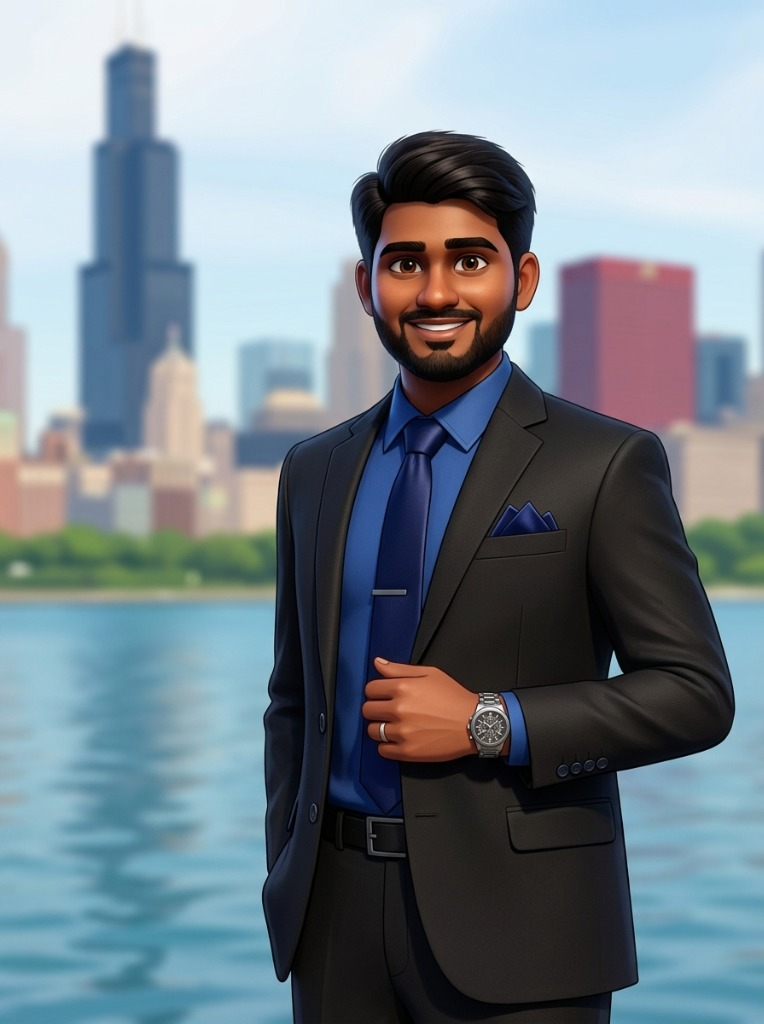
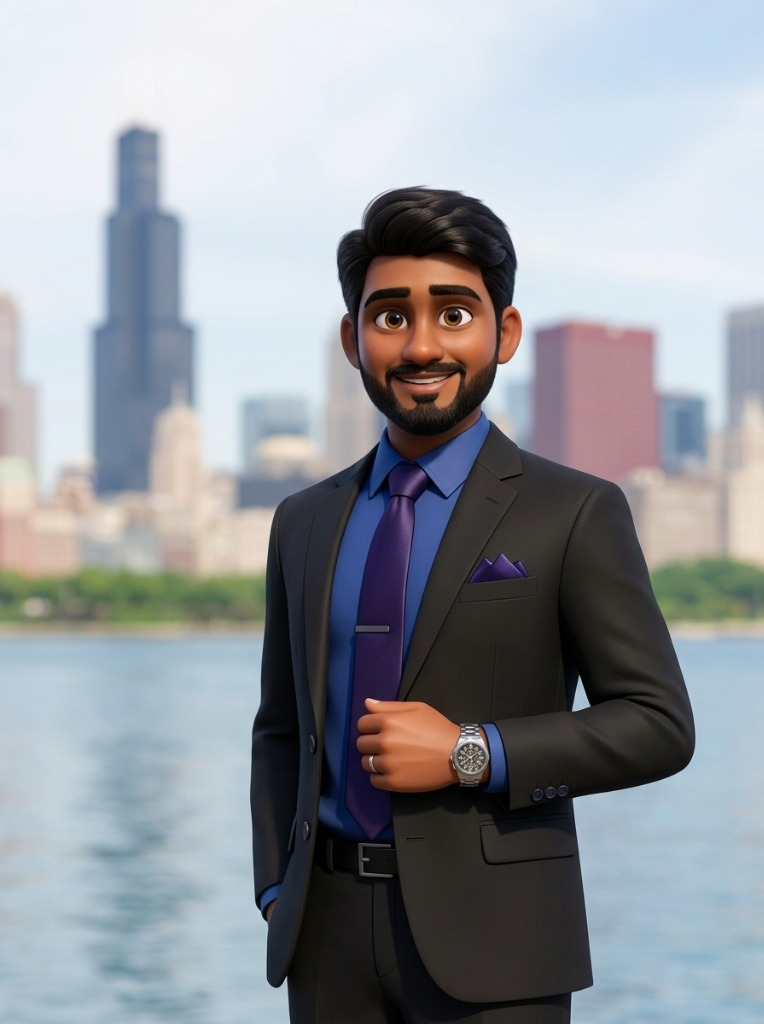
feat: implement interactive liquid-blob mask transition for profile photo reveal

diff --git a/lib/presentation/widgets/body/about_me/interactive_profile_photo.dart b/lib/presentation/widgets/body/about_me/interactive_profile_photo.dart
@@ -1,3 +1,4 @@
+import 'dart:math' as math;
 import 'dart:ui';
 import 'package:flutter/material.dart';
 import '../../../../core/utils/app_extensions.dart';
@@ -10,18 +11,70 @@ class InteractiveProfilePhoto extends StatefulWidget {
       _InteractiveProfilePhotoState();
 }
 
-class _InteractiveProfilePhotoState extends State<InteractiveProfilePhoto> {
+class _InteractiveProfilePhotoState extends State<InteractiveProfilePhoto>
+    with TickerProviderStateMixin {
+  Offset? _mousePosition;
+  late AnimationController _revealController;
+  late Animation<double> _revealAnimation;
+  late AnimationController _fluidWaveController;
   bool _isHovered = false;
+
+  @override
+  void initState() {
+    super.initState();
+    _revealController = AnimationController(
+      vsync: this,
+      duration: const Duration(milliseconds: 350),
+    );
+    _revealAnimation = CurvedAnimation(
+      parent: _revealController,
+      curve: Curves.easeOutCubic,
+      reverseCurve: Curves.easeInCubic,
+    );
+
+    // Continuous subtle fluid surface tension wave animation
+    _fluidWaveController = AnimationController(
+      vsync: this,
+      duration: const Duration(milliseconds: 3000),
+    )..repeat();
+  }
 
   @override
   void didChangeDependencies() {
     super.didChangeDependencies();
-    // Precache both images for instant, smooth cross-fading
     precacheImage(
       const AssetImage('assets/images/profile_animated.jpg'),
       context,
     );
     precacheImage(const AssetImage('assets/images/profile_real.jpg'), context);
+  }
+
+  @override
+  void dispose() {
+    _revealController.dispose();
+    _fluidWaveController.dispose();
+    super.dispose();
+  }
+
+  void _onHover(PointerEvent event) {
+    setState(() {
+      _isHovered = true;
+      _mousePosition = event.localPosition;
+    });
+    if (!_revealController.isAnimating && _revealController.value < 1.0) {
+      _revealController.forward();
+    }
+  }
+
+  void _onExit(PointerEvent event) {
+    _revealController.reverse().then((_) {
+      if (mounted) {
+        setState(() {
+          _isHovered = false;
+          _mousePosition = null;
+        });
+      }
+    });
   }
 
   @override
@@ -35,11 +88,21 @@ class _InteractiveProfilePhotoState extends State<InteractiveProfilePhoto> {
     final photoHeight = photoWidth * 1.3;
 
     return MouseRegion(
-      cursor: SystemMouseCursors.click,
-      onEnter: (_) => setState(() => _isHovered = true),
-      onExit: (_) => setState(() => _isHovered = false),
+      cursor: SystemMouseCursors.basic,
+      onHover: _onHover,
+      onEnter: _onHover,
+      onExit: _onExit,
       child: GestureDetector(
-        onTap: () => setState(() => _isHovered = !_isHovered),
+        onTapDown: (details) {
+          setState(() {
+            _mousePosition = details.localPosition;
+          });
+          if (_revealController.isCompleted) {
+            _revealController.reverse();
+          } else {
+            _revealController.forward();
+          }
+        },
         child: AnimatedContainer(
           duration: const Duration(milliseconds: 300),
           curve: Curves.easeOutCubic,
@@ -69,26 +132,45 @@ class _InteractiveProfilePhotoState extends State<InteractiveProfilePhoto> {
             child: Stack(
               fit: StackFit.expand,
               children: [
-                // Real photo (base layer)
+                // Base layer: Animated illustration avatar
                 Image.asset(
-                  'assets/images/profile_real.jpg',
+                  'assets/images/profile_animated.jpg',
                   fit: BoxFit.cover,
                   alignment: const Alignment(0, -0.35),
                 ),
 
-                // Animated illustration (top layer with smooth crossfade)
-                AnimatedOpacity(
-                  opacity: _isHovered ? 0.0 : 1.0,
-                  duration: const Duration(milliseconds: 400),
-                  curve: Curves.easeInOutCubic,
-                  child: Image.asset(
-                    'assets/images/profile_animated.jpg',
-                    fit: BoxFit.cover,
-                    alignment: const Alignment(0, -0.35),
-                  ),
+                // Top layer: Real Photo revealed through a dynamically morphing liquid blob
+                AnimatedBuilder(
+                  animation: Listenable.merge([
+                    _revealAnimation,
+                    _fluidWaveController,
+                  ]),
+                  builder: (context, child) {
+                    final factor = _revealAnimation.value;
+                    if (_mousePosition == null || factor <= 0.001) {
+                      return const SizedBox.shrink();
+                    }
+
+                    // Dynamic organic blob radius
+                    final currentRadius = 145.0 * factor;
+                    final timePhase = _fluidWaveController.value * 2 * math.pi;
+
+                    return ClipPath(
+                      clipper: _DynamicMorphingBlobClipper(
+                        center: _mousePosition!,
+                        radius: currentRadius,
+                        timePhase: timePhase,
+                      ),
+                      child: Image.asset(
+                        'assets/images/profile_real.jpg',
+                        fit: BoxFit.cover,
+                        alignment: const Alignment(0, -0.35),
+                      ),
+                    );
+                  },
                 ),
 
-                // Subtle interactive badge
+                // Clean status pill at bottom right
                 Positioned(
                   bottom: 12,
                   right: 12,
@@ -109,29 +191,14 @@ class _InteractiveProfilePhotoState extends State<InteractiveProfilePhoto> {
                             width: 0.8,
                           ),
                         ),
-                        child: Row(
-                          mainAxisSize: MainAxisSize.min,
-                          children: [
-                            Icon(
-                              _isHovered
-                                  ? Icons.camera_alt_rounded
-                                  : Icons.auto_awesome_rounded,
-                              size: 13,
-                              color: _isHovered
-                                  ? const Color(0xFF60A5FA)
-                                  : const Color(0xFFFBBF24),
-                            ),
-                            const SizedBox(width: 6),
-                            Text(
-                              _isHovered ? 'Real Photo' : 'Hover to view',
-                              style: const TextStyle(
-                                fontSize: 11,
-                                fontWeight: FontWeight.w600,
-                                color: Colors.white,
-                                letterSpacing: 0.3,
-                              ),
-                            ),
-                          ],
+                        child: Text(
+                          _isHovered ? 'Real Photo' : 'Hover to view',
+                          style: const TextStyle(
+                            fontSize: 11,
+                            fontWeight: FontWeight.w600,
+                            color: Colors.white,
+                            letterSpacing: 0.3,
+                          ),
                         ),
                       ),
                     ),
@@ -143,5 +210,77 @@ class _InteractiveProfilePhotoState extends State<InteractiveProfilePhoto> {
         ),
       ),
     );
+  }
+}
+
+/// Creates a dynamically morphing, liquid-like blob mask that changes shape
+/// continuously based on cursor movement (X, Y) and fluid time oscillation.
+class _DynamicMorphingBlobClipper extends CustomClipper<Path> {
+  _DynamicMorphingBlobClipper({
+    required this.center,
+    required this.radius,
+    required this.timePhase,
+  });
+
+  final Offset center;
+  final double radius;
+  final double timePhase;
+
+  @override
+  Path getClip(Size size) {
+    if (radius <= 0.5) return Path();
+
+    final path = Path();
+    const numPoints = 12;
+    final points = <Offset>[];
+
+    // Derive spatial distortion phases from mouse coordinates
+    final mousePhaseX = center.dx * 0.038;
+    final mousePhaseY = center.dy * 0.032;
+
+    for (int i = 0; i < numPoints; i++) {
+      final theta = (i * 2 * math.pi) / numPoints;
+
+      // Multi-frequency harmonic perturbation morphed by cursor position and fluid time
+      final wave1 = 0.22 * math.sin(3 * theta + mousePhaseX + timePhase * 0.8);
+      final wave2 = 0.16 * math.cos(4 * theta - mousePhaseY + timePhase * 1.1);
+      final wave3 =
+          0.10 * math.sin(2 * theta + (mousePhaseX - mousePhaseY) * 0.6);
+      final wave4 =
+          0.06 * math.cos(5 * theta + (center.dx + center.dy) * 0.015);
+
+      final r = radius * (1.0 + wave1 + wave2 + wave3 + wave4);
+
+      final x = center.dx + r * math.cos(theta);
+      final y = center.dy + r * math.sin(theta);
+      points.add(Offset(x, y));
+    }
+
+    // Form smooth spline curve using quadratic beziers
+    final startMid = Offset(
+      (points[0].dx + points[numPoints - 1].dx) / 2,
+      (points[0].dy + points[numPoints - 1].dy) / 2,
+    );
+    path.moveTo(startMid.dx, startMid.dy);
+
+    for (int i = 0; i < numPoints; i++) {
+      final current = points[i];
+      final next = points[(i + 1) % numPoints];
+      final mid = Offset(
+        (current.dx + next.dx) / 2,
+        (current.dy + next.dy) / 2,
+      );
+      path.quadraticBezierTo(current.dx, current.dy, mid.dx, mid.dy);
+    }
+
+    path.close();
+    return path;
+  }
+
+  @override
+  bool shouldReclip(covariant _DynamicMorphingBlobClipper oldClipper) {
+    return oldClipper.center != center ||
+        oldClipper.radius != radius ||
+        oldClipper.timePhase != timePhase;
   }
 }
